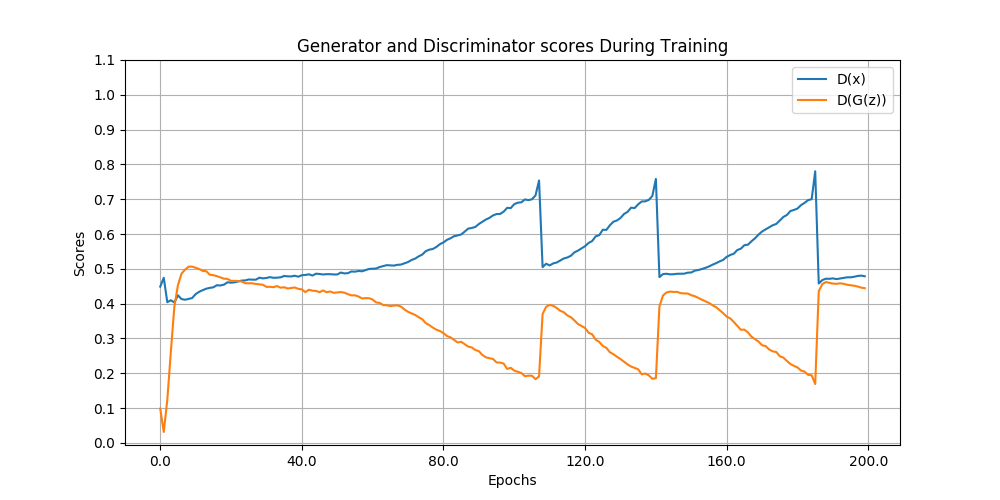
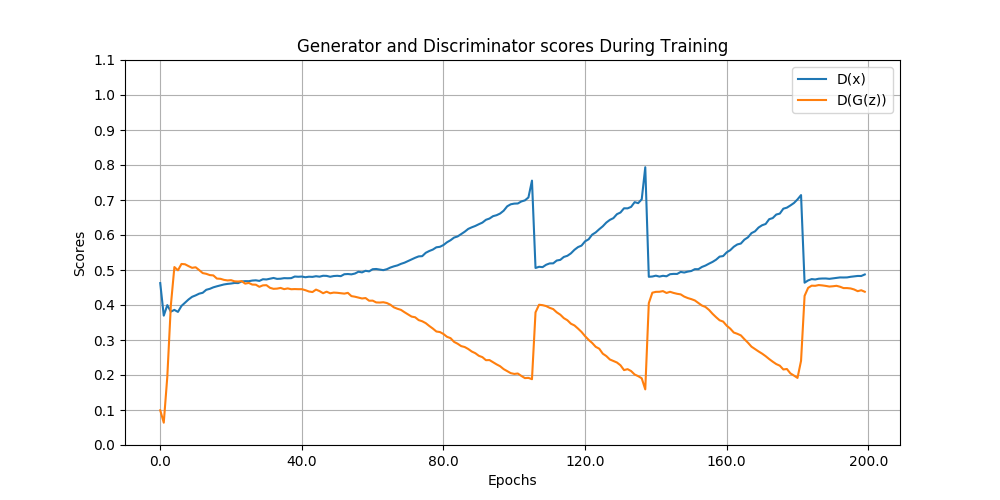
FixBug

diff --git a/W11_resetD_dcgan/dcgan.py b/W11_resetD_dcgan/dcgan.py
@@ -311,20 +311,20 @@ for j, epoch in enumerate(range(start_epoch,opt.n_epochs+1)):
 		# -----------------
 		#  Train Generator
 		# -----------------
-		if trainG:	
-			optimizer_G.zero_grad()
+		#if trainG:	
+		optimizer_G.zero_grad()
+	
+		# New discriminator descision, Since we just updated D
+		d_g_z = discriminator(gen_imgs)
+	
+		# Loss measures generator's ability to fool the discriminator
+		g_loss = adversarial_loss(d_g_z, valid)
+	
+	
+		# Backward
+		g_loss.backward()
 		
-			# New discriminator descision, Since we just updated D
-			d_g_z = discriminator(gen_imgs)
-		
-			# Loss measures generator's ability to fool the discriminator
-			g_loss = adversarial_loss(d_g_z, valid)
-		
-		
-			# Backward
-			g_loss.backward()
-			
-			optimizer_G.step()
+		optimizer_G.step()
 
 		print(
 			"[Epoch %d/%d] [Batch %d/%d] [D loss: %f] [G loss: %f] [Time: %fs]"
@@ -358,7 +358,7 @@ for j, epoch in enumerate(range(start_epoch,opt.n_epochs+1)):
 			save_model(discriminator,optimizer_D,epoch,opt.model_save_path+"/tmp_D.pt")
 			trainG = True
 			nb_save = nb_save+1
-			save_point.append(epoch)
+			save_point.append(epoch-1)
 		elif D_x[j] > 0.7 and D_G_z[j] < 0.2: # Seuil de chargement
 		#elif D_x[j] < 0.2 and D_G_z[j] > 0.6: 
 			#if os.path.exists(opt.model_save_path+"/tmp_D.pt"):
@@ -367,7 +367,7 @@ for j, epoch in enumerate(range(start_epoch,opt.n_epochs+1)):
 			os.remove(opt.model_save_path+"/tmp_D.pt")
 			trainG = False
 			nb_load = nb_load+1
-			load_point.append(epoch)
+			load_point.append(epoch-1)
 			
 	if trainG:
 		plot_trainG[j] = 1

diff --git a/utils.py b/utils.py
@@ -187,8 +187,8 @@ def plot_reset(trainG,save_point,load_point,start_epoch=1,current_epoch=-1):
 	fig = plt.figure(figsize=(10,5))
 	plt.title("trainG Value During Training")
 	plt.plot(trainG,label="State trainG")
-	plt.scatter(save_point,np.zeros(len(save_point)),s=60,color='r',marker="|")
-	plt.scatter(load_point,np.zeros(len(load_point)),color='g',marker="+")
+	plt.scatter(save_point,np.zeros(len(save_point)),s=60,color='r',marker="|",label="Save point")
+	plt.scatter(load_point,np.zeros(len(load_point)),color='g',marker="+",label="Load point")
 	plt.xlabel("Epochs")
 	plt.ylabel("Value")
 	plt.legend()
